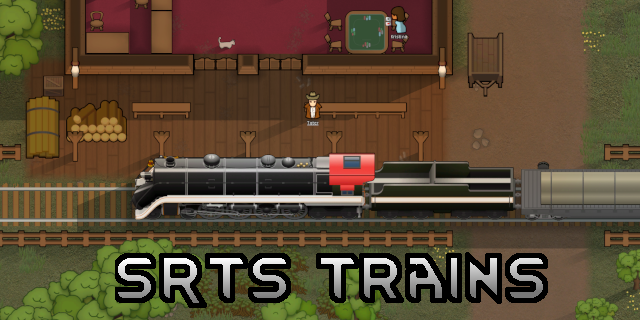
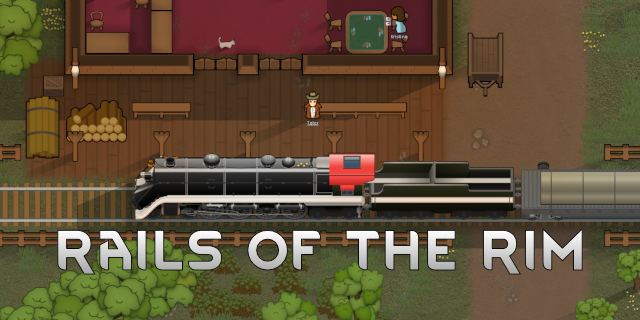
Update notes and preview

Changed region(s): [[0.0625, 0.7188, 0.9375, 0.9688]]

diff --git a/README.md b/README.md
@@ -1,4 +1,4 @@
-# Vehicles - Trains
+# Rails of the Rim
 
 ## Overview
 
@@ -14,7 +14,7 @@ Adds trains to Rimworld using Vehicle Framework and Vanilla Expanded mods.
 
 ## Trains
 
-Below are the trains currently available.
+Below are the trains currently planned.
 
 ---
 
@@ -28,7 +28,7 @@ TBD
 
 ### Heavy Steam Locomotive
 
-A heavy 4-8-4 locomotive that burns chemfuel to heat water, generating steam to drive pistons and move the wheels. This type is quite capable of hauling heavy loads even across hilly terrain. Based on the oil burning 4-8-2 "Mountain" locomotives by the St. Louis - San Francisco Railway Company operated from the 1920s to the 1950s for both passenger and freight service. Art by PentalimbedCat.
+A heavy 4-8-4 locomotive that burns chemfuel to heat water, generating steam to drive pistons and move the wheels. This type is quite capable of hauling heavy loads even across hilly terrain. Based on the oil burning 4-8-2 "Mountain" locomotives operated by the St. Louis - San Francisco Railway Company from the 1920s to the 1950s for both passenger and freight service. Art by PentalimbedP.
 
 **Stats**
 
